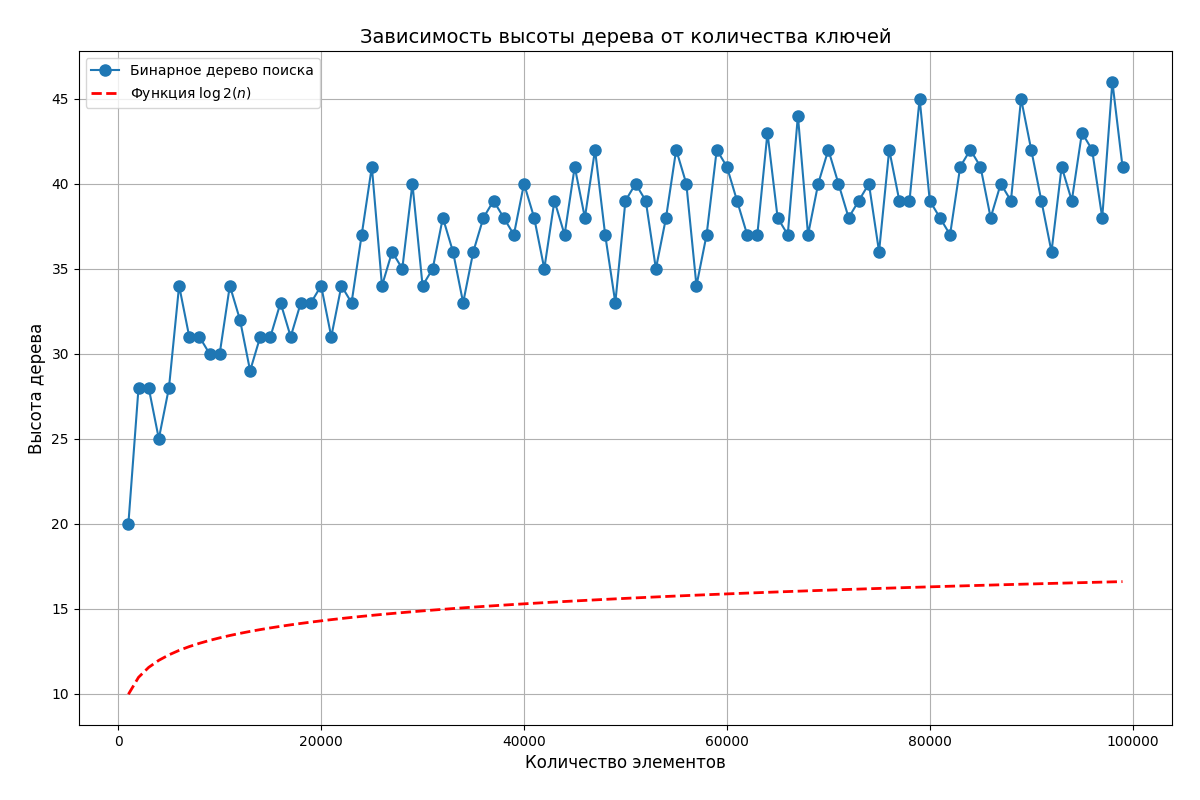
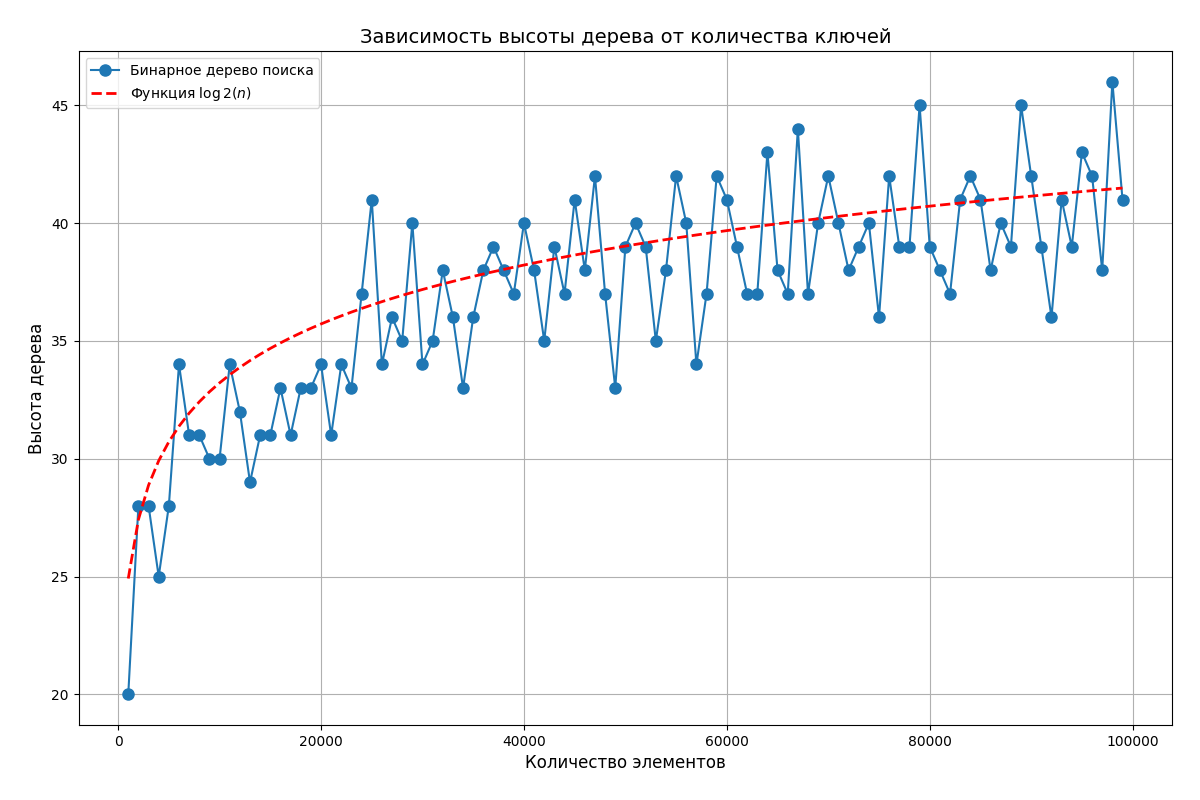
на отправку

diff --git a/main.py b/main.py
@@ -5,53 +5,53 @@ from Red_Black import RBT
 from Sort import MergeSort
 from graphs import make_graphs
 
-# bst_h = []
-# for i in range(1000, 100000, 1000):
-#     arr = random.sample(range(1, 1000000), i)
-#     tree = BST()
-#     for j in arr:
-#         tree.insert(j, str(j))
-#     tree.get_height()
-#     bst_h.append(tree.height)
+bst_h = []
+for i in range(1000, 100000, 1000):
+    arr = random.sample(range(1, 1000000), i)
+    tree = BST()
+    for j in arr:
+        tree.insert(j, str(j))
+    tree.get_height()
+    bst_h.append(tree.height)
 #
-bst_h = [20, 28, 28, 25, 28, 34, 31, 31, 30, 30, 34, 32, 29, 31, 31, 33, 31, 33, 33, 34, 31, 34, 33, 37, 41, 34, 36, 35,
-         40, 34, 35, 38, 36, 33, 36, 38, 39, 38, 37, 40, 38, 35, 39, 37, 41, 38, 42, 37, 33, 39, 40, 39, 35, 38, 42, 40,
-         34, 37, 42, 41, 39, 37, 37, 43, 38, 37, 44, 37, 40, 42, 40, 38, 39, 40, 36, 42, 39, 39, 45, 39, 38, 37, 41, 42,
-         41, 38, 40, 39, 45, 42, 39, 36, 41, 39, 43, 42, 38, 46, 41]
-make_graphs([i for i in range(1000, 100000, 1000)], bst_h, "Бинарное дерево поиска", "bst_log.png")
+# bst_h = [20, 28, 28, 25, 28, 34, 31, 31, 30, 30, 34, 32, 29, 31, 31, 33, 31, 33, 33, 34, 31, 34, 33, 37, 41, 34, 36, 35,
+#          40, 34, 35, 38, 36, 33, 36, 38, 39, 38, 37, 40, 38, 35, 39, 37, 41, 38, 42, 37, 33, 39, 40, 39, 35, 38, 42, 40,
+#          34, 37, 42, 41, 39, 37, 37, 43, 38, 37, 44, 37, 40, 42, 40, 38, 39, 40, 36, 42, 39, 39, 45, 39, 38, 37, 41, 42,
+#          41, 38, 40, 39, 45, 42, 39, 36, 41, 39, 43, 42, 38, 46, 41]
+# make_graphs([i for i in range(1000, 100000, 1000)], bst_h, "Бинарное дерево поиска", "bst_log.png")
 #
-# rbt_h = []
+rbt_h = []
 #
-# for i in range(1000, 100000, 1000):
-#     test_tree = RBT()
-#     nums = MergeSort([random.randint(0, 100000000) for _ in range(i)])
-#     for j in nums:
-#         msg = test_tree.insert(j, str(j))
-#         if msg != "Key is already exist":
-#             test_tree.update_params()
-#     test_tree.get_height()
-#     rbt_h.append(test_tree.height)
-rbt_h = [17, 19, 20, 21, 22, 22, 23, 23, 24, 24, 24, 24, 25, 25, 25, 25, 26, 26, 26, 26, 26, 26, 26, 26, 27, 27, 27, 27,
-         27, 27, 27, 27, 28, 28, 28, 28, 28, 28, 28, 28, 28, 28, 28, 28, 28, 28, 28, 28, 28, 29, 29, 29, 29, 29, 29, 29,
-         29, 29, 29, 29, 29, 29, 29, 29, 29, 30, 30, 30, 30, 30, 30, 30, 30, 30, 30, 30, 30, 30, 30, 30, 30, 30, 30, 30,
-         30, 30, 30, 30, 30, 30, 30, 30, 30, 30, 30, 30, 30, 30, 31]
+for i in range(1000, 100000, 1000):
+    test_tree = RBT()
+    nums = MergeSort([random.randint(0, 100000000) for _ in range(i)])
+    for j in nums:
+        msg = test_tree.insert(j, str(j))
+        if msg != "Key is already exist":
+            test_tree.update_params()
+    test_tree.get_height()
+    rbt_h.append(test_tree.height)
+# rbt_h = [17, 19, 20, 21, 22, 22, 23, 23, 24, 24, 24, 24, 25, 25, 25, 25, 26, 26, 26, 26, 26, 26, 26, 26, 27, 27, 27, 27,
+#          27, 27, 27, 27, 28, 28, 28, 28, 28, 28, 28, 28, 28, 28, 28, 28, 28, 28, 28, 28, 28, 29, 29, 29, 29, 29, 29, 29,
+#          29, 29, 29, 29, 29, 29, 29, 29, 29, 30, 30, 30, 30, 30, 30, 30, 30, 30, 30, 30, 30, 30, 30, 30, 30, 30, 30, 30,
+#          30, 30, 30, 30, 30, 30, 30, 30, 30, 30, 30, 30, 30, 30, 31]
 make_graphs([i for i in range(1000, 100000, 1000)], rbt_h, "Красно-черное дерево", "rbt_log.png")
 #
-# avl_h = []
+avl_h = []
 #
-# for i in range(1000, 100000, 1000):
-#     test_tree = AVL_T()
-#     nums = MergeSort([random.randint(0, 100000000) for _ in range(i)])
-#     for j in nums:
-#         msg = test_tree.insert(j, str(j))
-#         if msg != "Key is already exist":
-#             test_tree.update_params()
-#     test_tree.get_height()
-#     avl_h.append(test_tree.height)
-avl_h = [10, 11, 12, 12, 13, 13, 13, 13, 14, 14, 14, 14, 14, 14, 14, 14, 15, 15, 15, 15, 15, 15, 15, 15, 15, 15, 15, 15,
-         15, 15, 15, 15, 16, 16, 16, 16, 16, 16, 16, 16, 16, 16, 16, 16, 16, 16, 16, 16, 16, 16, 16, 16, 16, 16, 16, 16,
-         16, 16, 16, 16, 16, 16, 16, 16, 16, 17, 17, 17, 17, 17, 17, 17, 17, 17, 17, 17, 17, 17, 17, 17, 17, 17, 17, 17,
-         17, 17, 17, 17, 17, 17, 17, 17, 17, 17, 17, 17, 17, 17, 17]
+for i in range(1000, 100000, 1000):
+    test_tree = AVL_T()
+    nums = MergeSort([random.randint(0, 100000000) for _ in range(i)])
+    for j in nums:
+        msg = test_tree.insert(j, str(j))
+        if msg != "Key is already exist":
+            test_tree.update_params()
+    test_tree.get_height()
+    avl_h.append(test_tree.height)
+# avl_h = [10, 11, 12, 12, 13, 13, 13, 13, 14, 14, 14, 14, 14, 14, 14, 14, 15, 15, 15, 15, 15, 15, 15, 15, 15, 15, 15, 15,
+#          15, 15, 15, 15, 16, 16, 16, 16, 16, 16, 16, 16, 16, 16, 16, 16, 16, 16, 16, 16, 16, 16, 16, 16, 16, 16, 16, 16,
+#          16, 16, 16, 16, 16, 16, 16, 16, 16, 17, 17, 17, 17, 17, 17, 17, 17, 17, 17, 17, 17, 17, 17, 17, 17, 17, 17, 17,
+#          17, 17, 17, 17, 17, 17, 17, 17, 17, 17, 17, 17, 17, 17, 17]
 make_graphs([i for i in range(1000, 100000, 1000)], avl_h, "АВЛ-дерево", "avl_log.png")
 #
 # print("Значения высот для 1000 -> 100000 шаг 1000")
@@ -64,11 +64,11 @@ make_graphs([i for i in range(1000, 100000, 1000)], avl_h, "АВЛ-дерево"
 # print("AVL")
 # print(avl_h)
 #
-# with open("Graphs/heights.txt", "w", encoding="utf-8") as file:
-#     file.write("Значения высот для 1000 -> 100000 шаг 1000\n")
-#     file.write("BST (ключи распределены равномерно)\n")
-#     file.write(f"{bst_h}\n\n")
-#     file.write("RBT (ключи монотонно возрастают)\n")
-#     file.write(f"{rbt_h}\n\n")
-#     file.write("AVL (ключи монотонно возрастают)\n")
-#     file.write(f"{avl_h}\n\n")
+with open("Graphs/heights.txt", "w", encoding="utf-8") as file:
+    file.write("Значения высот для 1000 -> 100000 шаг 1000\n")
+    file.write("BST (ключи распределены равномерно)\n")
+    file.write(f"{bst_h}\n\n")
+    file.write("RBT (ключи монотонно возрастают)\n")
+    file.write(f"{rbt_h}\n\n")
+    file.write("AVL (ключи монотонно возрастают)\n")
+    file.write(f"{avl_h}\n\n")

diff --git a/graphs.py b/graphs.py
@@ -6,7 +6,7 @@ import os
 def make_graphs(sizes, arr_h, name, filename="graph.png", save_path="Graphs"):
     plt.figure(figsize=(12, 8))
     plt.plot(sizes, arr_h, 'o-', label=name, markersize=8)
-    log_values = np.log2(sizes)
+    log_values = np.log2(sizes) #1.8RBT  2.5BST
     plt.plot(sizes, log_values, 'r--', label=r'Функция $\log2(n)$', linewidth=2)
     plt.title('Зависимость высоты дерева от количества ключей', fontsize=14)
     plt.xlabel('Количество элементов', fontsize=12)
